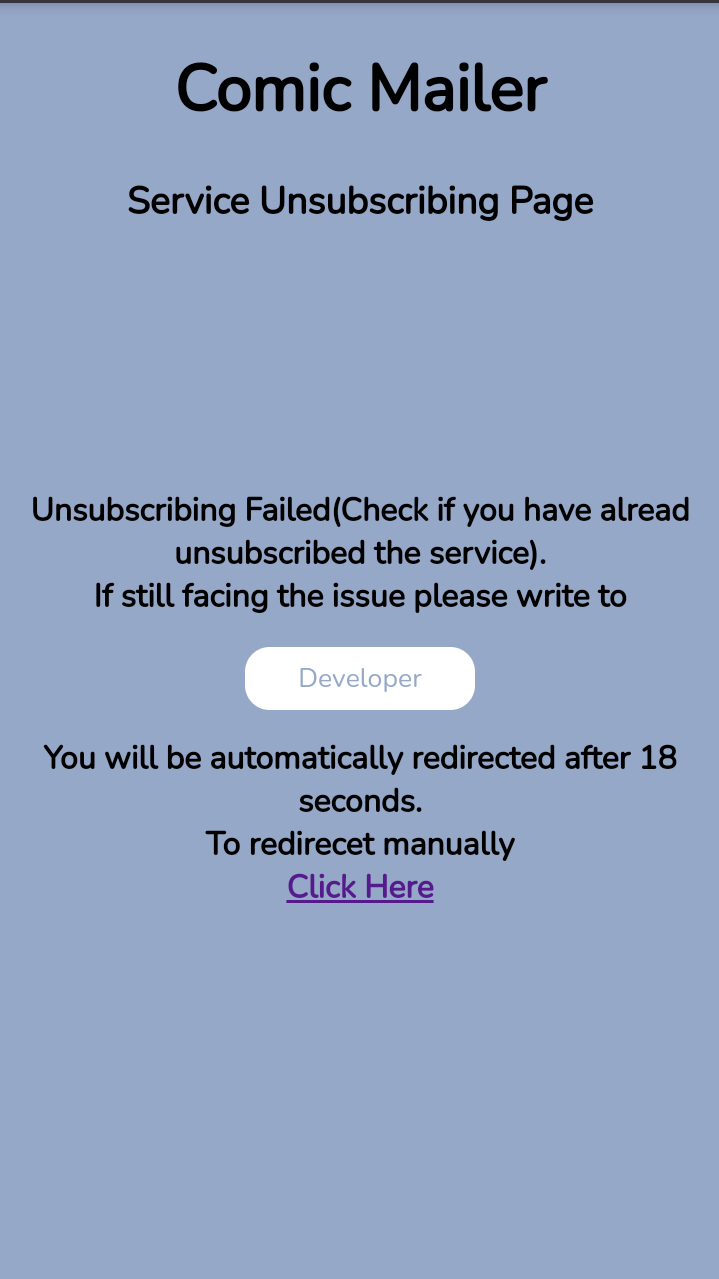
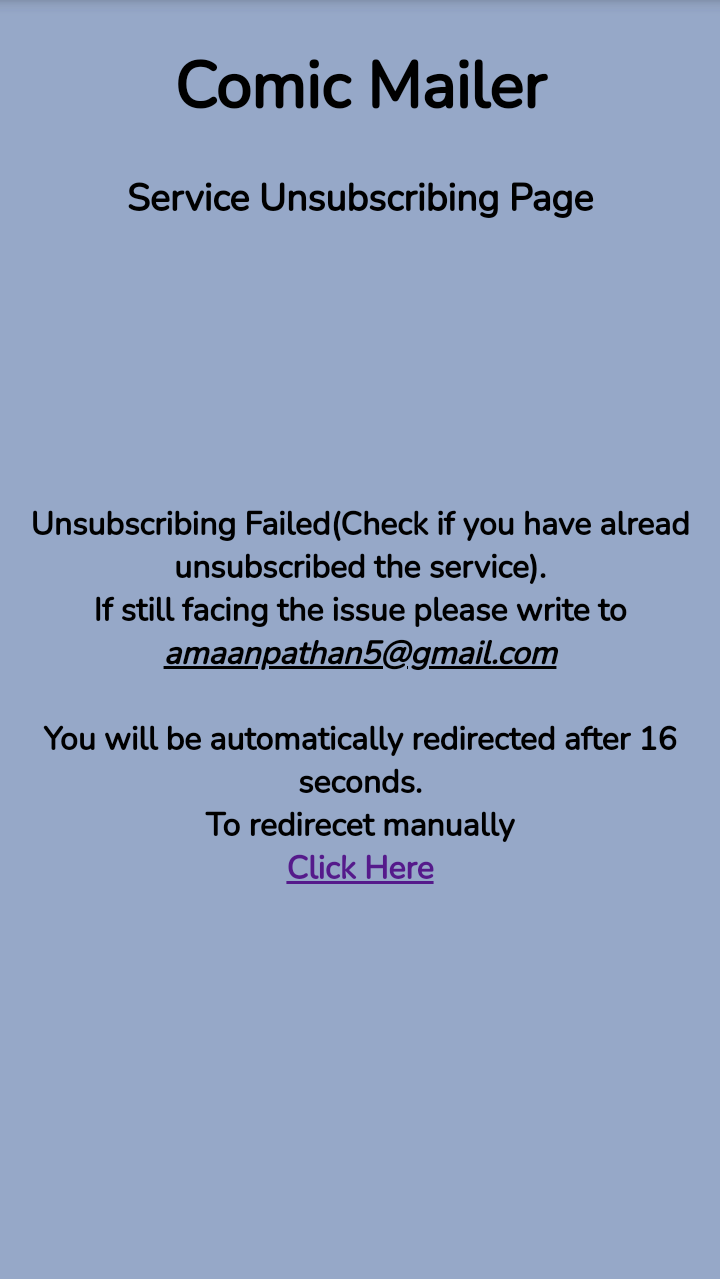
updated view

diff --git a/app/unsubscribe/main.js b/app/unsubscribe/main.js
@@ -80,10 +80,10 @@ let callback_unsubscribe_api = ( result ) => {
                                          To redirecet manually <a href="/">Click Here</a>`;
         } else {
             lower_container.innerHTML = `Unsubscribing Failed(Check if you have alread unsubscribed the service).<br>
-                                         If still facing the issue please write to
-                                         <form action="mailto:amaanpathan5@gmail.com" target="_blank" enctype="text/plain">
-                                            <input type="submit" value="Developer">
-                                         </form>
+                                         If still facing the issue please write to 
+                                         <div style="text-decoration: underline;font-style: italic;">
+                                            amaanpathan5@gmail.com
+                                         </div><br>
                                          You will be automatically redirected after ${timer_time} seconds.<br>
                                          To redirecet manually <a href="/">Click Here</a>`;
         }
